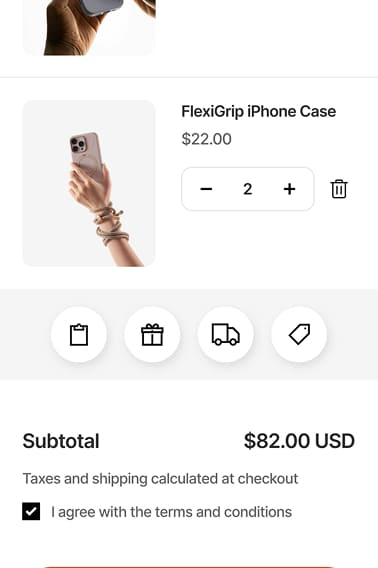
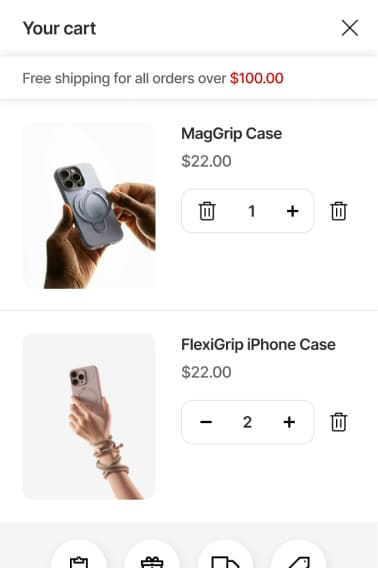
feedback

diff --git a/assets/scss/component/landing/_landing.scss b/assets/scss/component/landing/_landing.scss
@@ -1006,6 +1006,11 @@
             padding-top: 21px;
             padding-bottom: 0;
             padding-right: 0;
+
+            .image {
+                overflow: hidden;
+                border-radius: 10px;
+            }
         }
 
     }
@@ -1165,6 +1170,12 @@
 }
 
 .land-feature-v01.style-v3 {
+    .fea-item {
+        border-radius: 18px;
+        background: #4C4C4C99;
+        backdrop-filter: blur(10px);
+    }
+
     @include res(xl, min) {
 
         .feature-content {

diff --git a/assets/css/styles.css b/assets/css/styles.css
@@ -22772,6 +22772,10 @@ html:not([dir=rtl]) .noUi-horizontal .noUi-origin {
   padding-bottom: 0;
   padding-right: 0;
 }
+.land-feature-v01.style-v1 .feature-image .image {
+  overflow: hidden;
+  border-radius: 10px;
+}
 @media (min-width: 1200px) {
   .land-feature-v01 .feature_name {
     margin-bottom: 15px;
@@ -22889,6 +22893,11 @@ html:not([dir=rtl]) .noUi-horizontal .noUi-origin {
   }
 }
 
+.land-feature-v01.style-v3 .fea-item {
+  border-radius: 18px;
+  background: rgba(76, 76, 76, 0.6);
+  backdrop-filter: blur(10px);
+}
 @media (min-width: 1200px) {
   .land-feature-v01.style-v3 .feature-content {
     padding-top: 21px;

diff --git a/index.html b/index.html
@@ -1296,11 +1296,11 @@
                                         src="assets/images/section/feature-3.jpg" alt="Image">
                                     <div class="fea-item item-1 wow fadeInLeftBlur">
                                         <img loading="lazy" width="117" height="50"
-                                            src="assets/images/section/feature-3_2.jpg" alt="Image">
+                                            src="assets/images/section/feature-3_2.png" alt="Image">
                                     </div>
                                     <div class="fea-item item-2 wow fadeInRightBlur">
                                         <img loading="lazy" width="142" height="64"
-                                            src="assets/images/section/feature-3_3.jpg" alt="Image">
+                                            src="assets/images/section/feature-3_3.png" alt="Image">
                                     </div>
                                 </div>
                             </div>